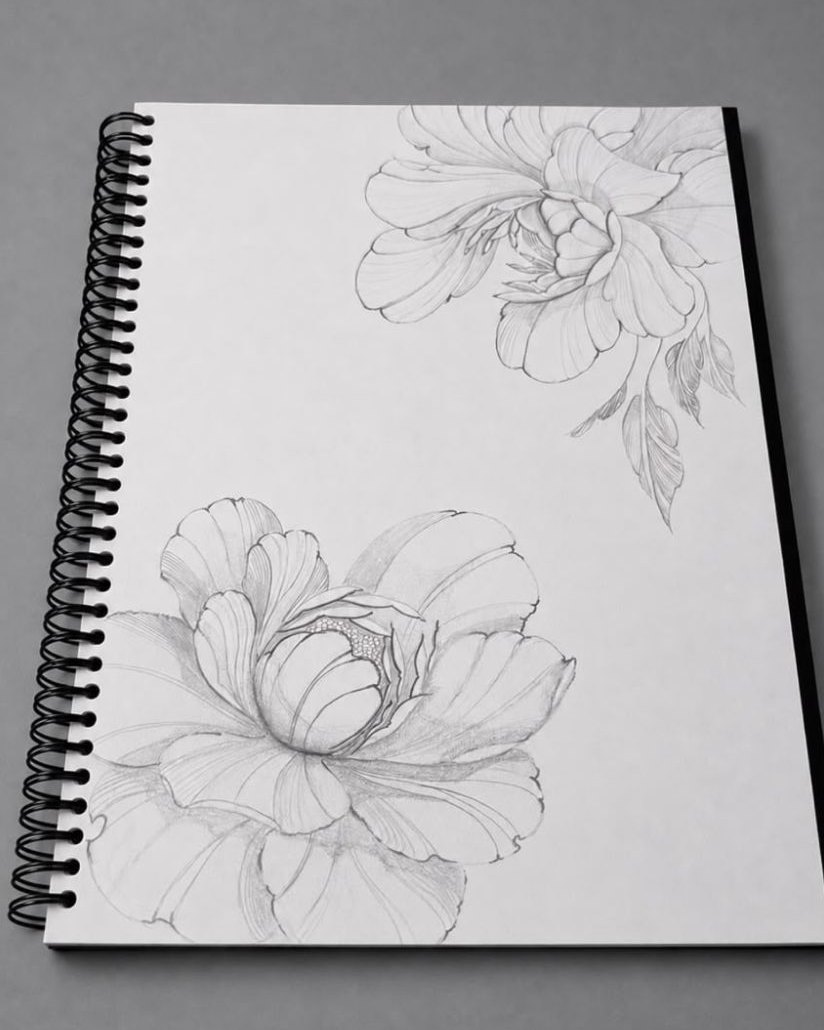
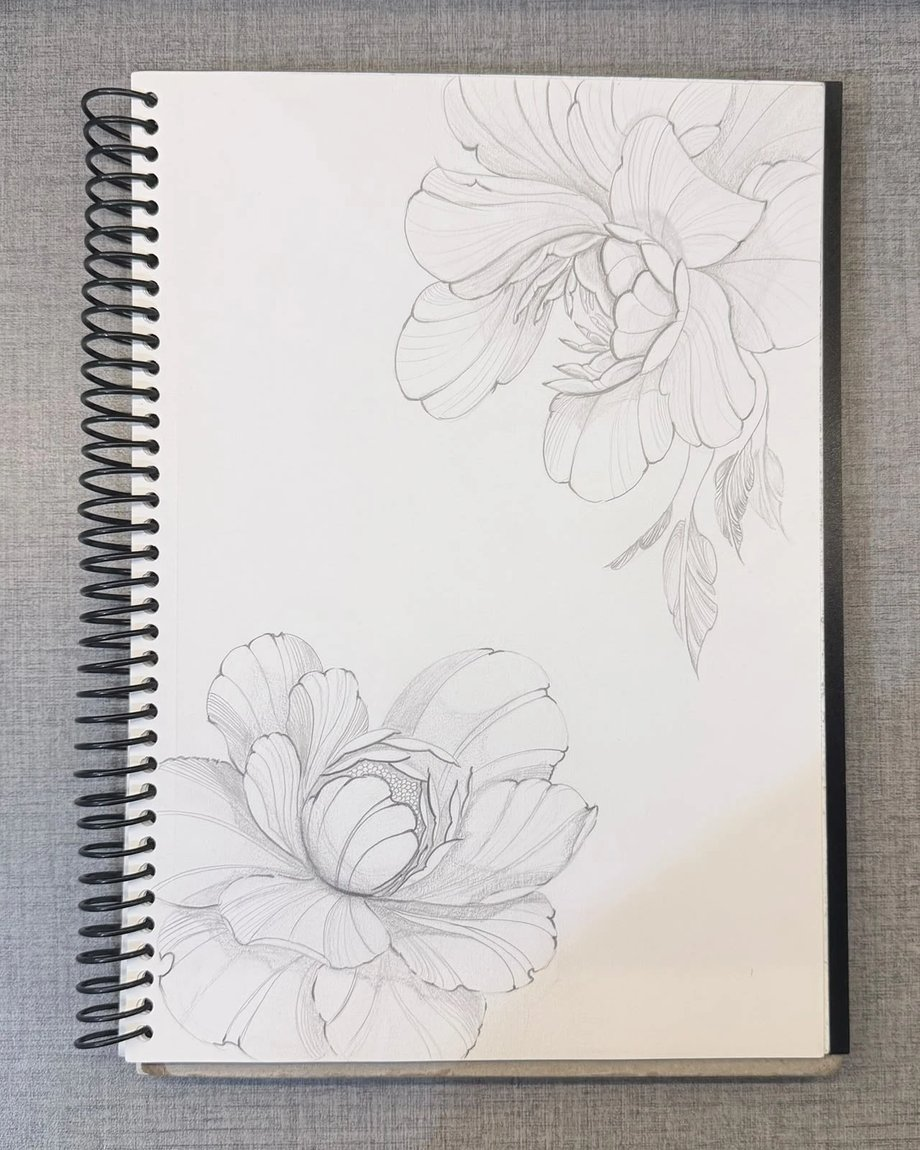
Add car, lemons and lilies drawings; replace dragon and peonies with sharper photos
Claude-Session: https://claude.ai/code/session_01AwXXR3LVyvVrtycrucWBPy

diff --git a/index.html b/index.html
@@ -237,7 +237,7 @@
         <li class="work__item" data-style="drawing">
           <figure>
             <div class="work__media">
-              <img src="assets/img/work/drawing-4.jpg" width="824" height="1030" loading="lazy" alt="ציור בעיפרון של ראש דרקון במחברת">
+              <img src="assets/img/work/drawing-4.jpg?v=2" width="920" height="1150" loading="lazy" alt="ציור בעיפרון של ראש דרקון במחברת">
             </div>
             <figcaption>דרקון · עיפרון</figcaption>
           </figure>
@@ -245,7 +245,7 @@
         <li class="work__item" data-style="drawing">
           <figure>
             <div class="work__media">
-              <img src="assets/img/work/drawing-5.jpg" width="824" height="1030" loading="lazy" alt="ציור בעיפרון של שתי אדמוניות במחברת">
+              <img src="assets/img/work/drawing-5.jpg?v=2" width="920" height="1150" loading="lazy" alt="ציור בעיפרון של שתי אדמוניות במחברת">
             </div>
             <figcaption>אדמוניות · עיפרון</figcaption>
           </figure>
@@ -288,6 +288,30 @@
               <img src="assets/img/work/drawing-10.jpg" width="920" height="1150" loading="lazy" alt="ציור בעיפרון של וודי מצעצוע של סיפור, במחברת">
             </div>
             <figcaption>וודי · עיפרון</figcaption>
+          </figure>
+        </li>
+        <li class="work__item" data-style="drawing">
+          <figure>
+            <div class="work__media">
+              <img src="assets/img/work/drawing-11.jpg" width="920" height="1150" loading="lazy" alt="ציור בעיפרון של מכונית ספורט, במחברת">
+            </div>
+            <figcaption>מכונית ספורט · עיפרון</figcaption>
+          </figure>
+        </li>
+        <li class="work__item" data-style="drawing">
+          <figure>
+            <div class="work__media">
+              <img src="assets/img/work/drawing-12.jpg" width="920" height="1150" loading="lazy" alt="ציור בעיפרון של ענפי לימון עם עלים ופירות">
+            </div>
+            <figcaption>לימונים · עיפרון</figcaption>
+          </figure>
+        </li>
+        <li class="work__item" data-style="drawing">
+          <figure>
+            <div class="work__media">
+              <img src="assets/img/work/drawing-13.jpg" width="920" height="1150" loading="lazy" alt="ציור בעיפרון של פרחי שושן בקווים עדינים">
+            </div>
+            <figcaption>שושנים · עיפרון</figcaption>
           </figure>
         </li>
         <!-- תמונות זמניות, רק כדי לראות את המעבר בין עמודים. להחליף בעבודות אמיתיות -->
